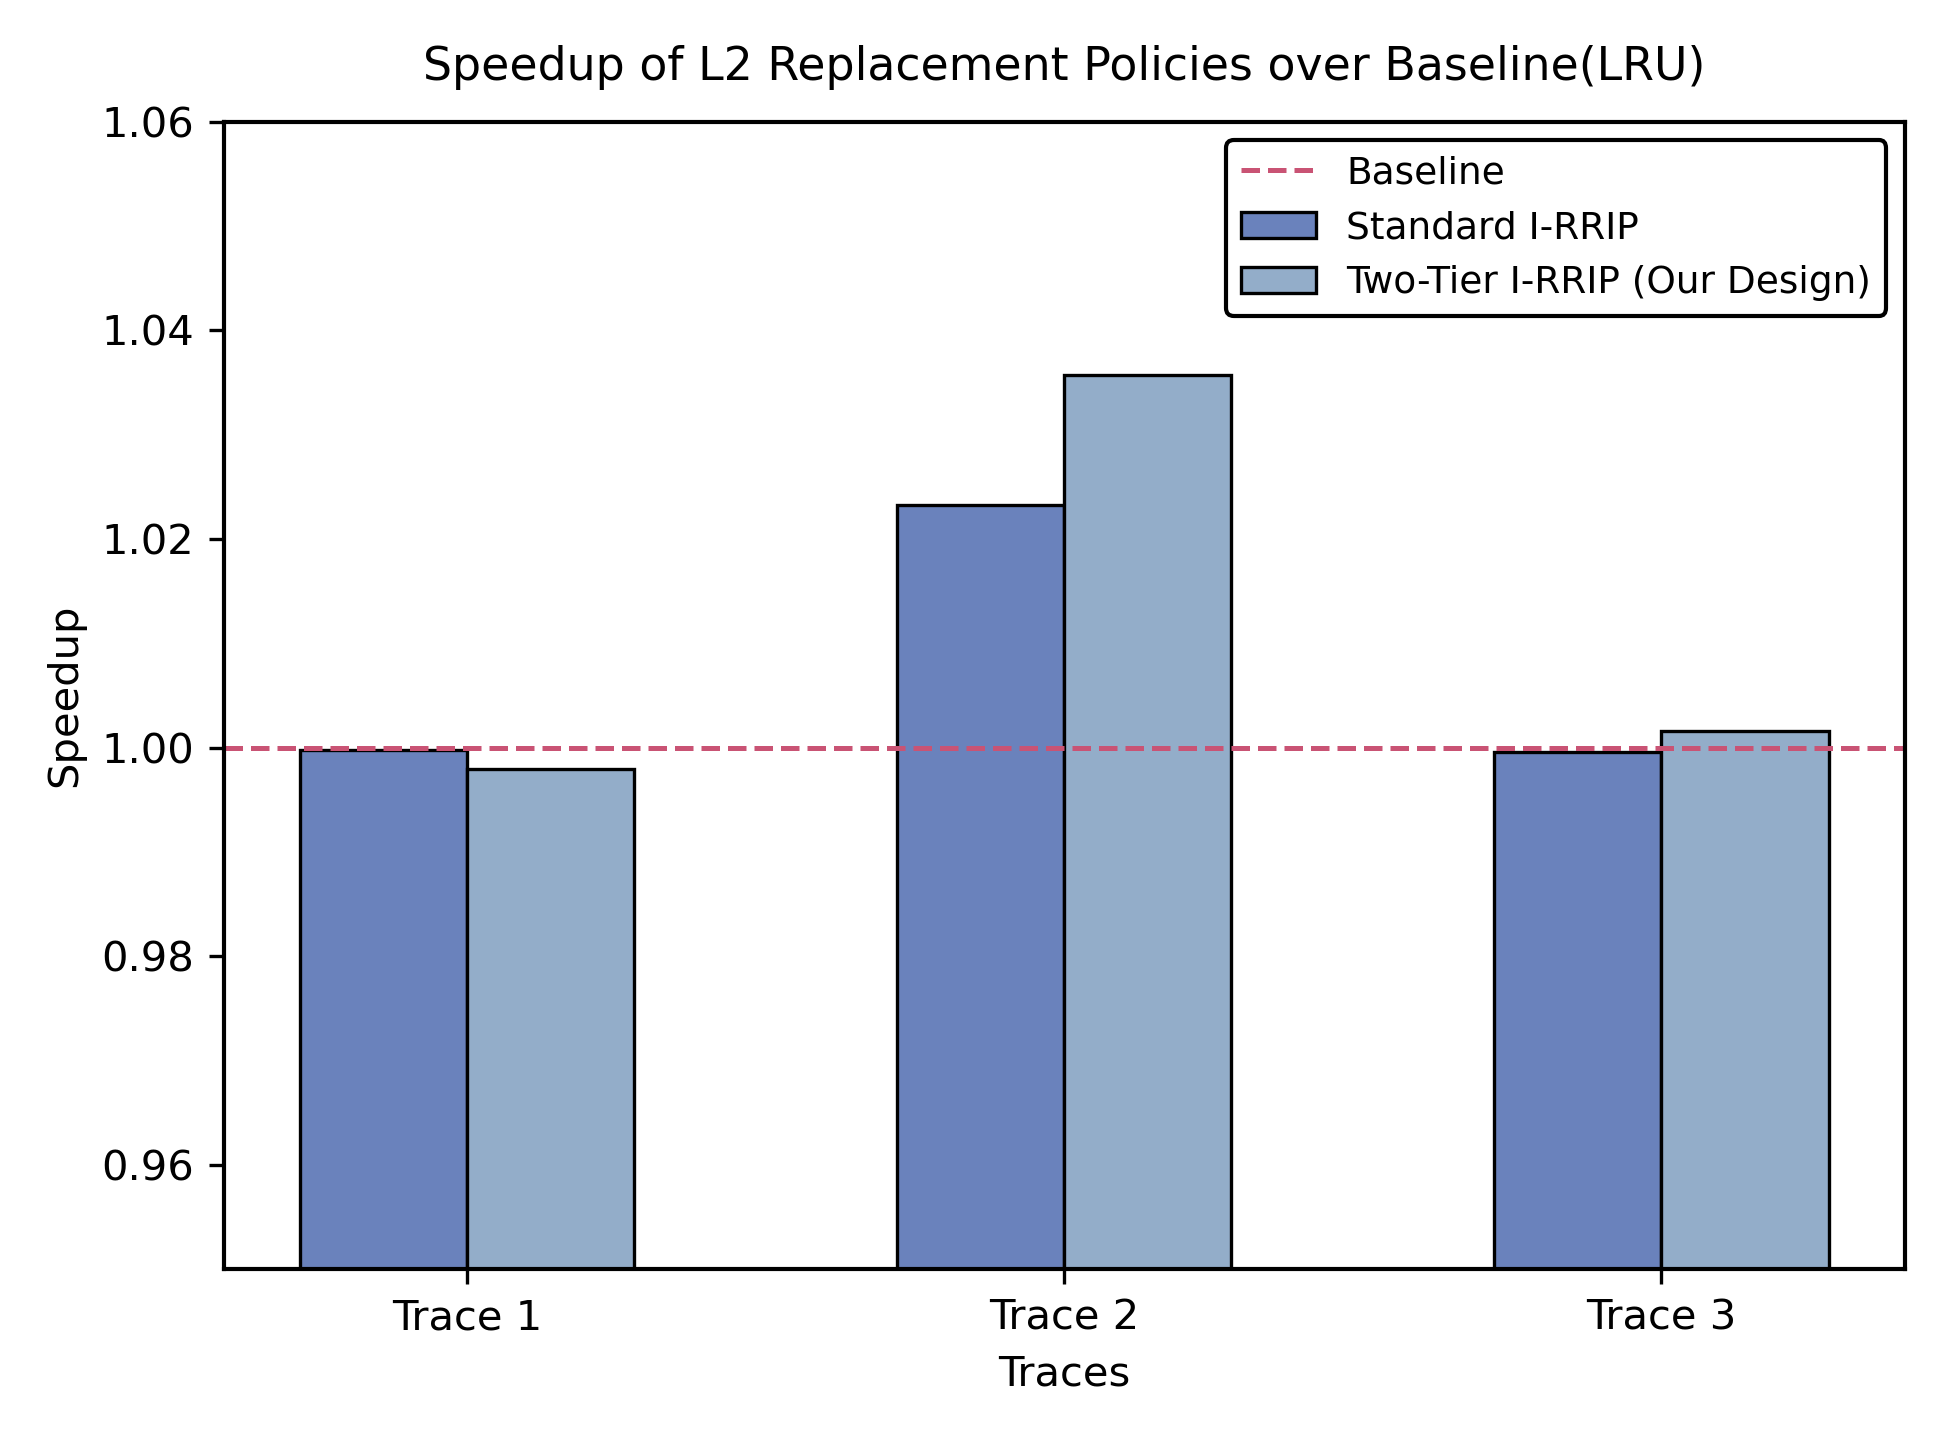
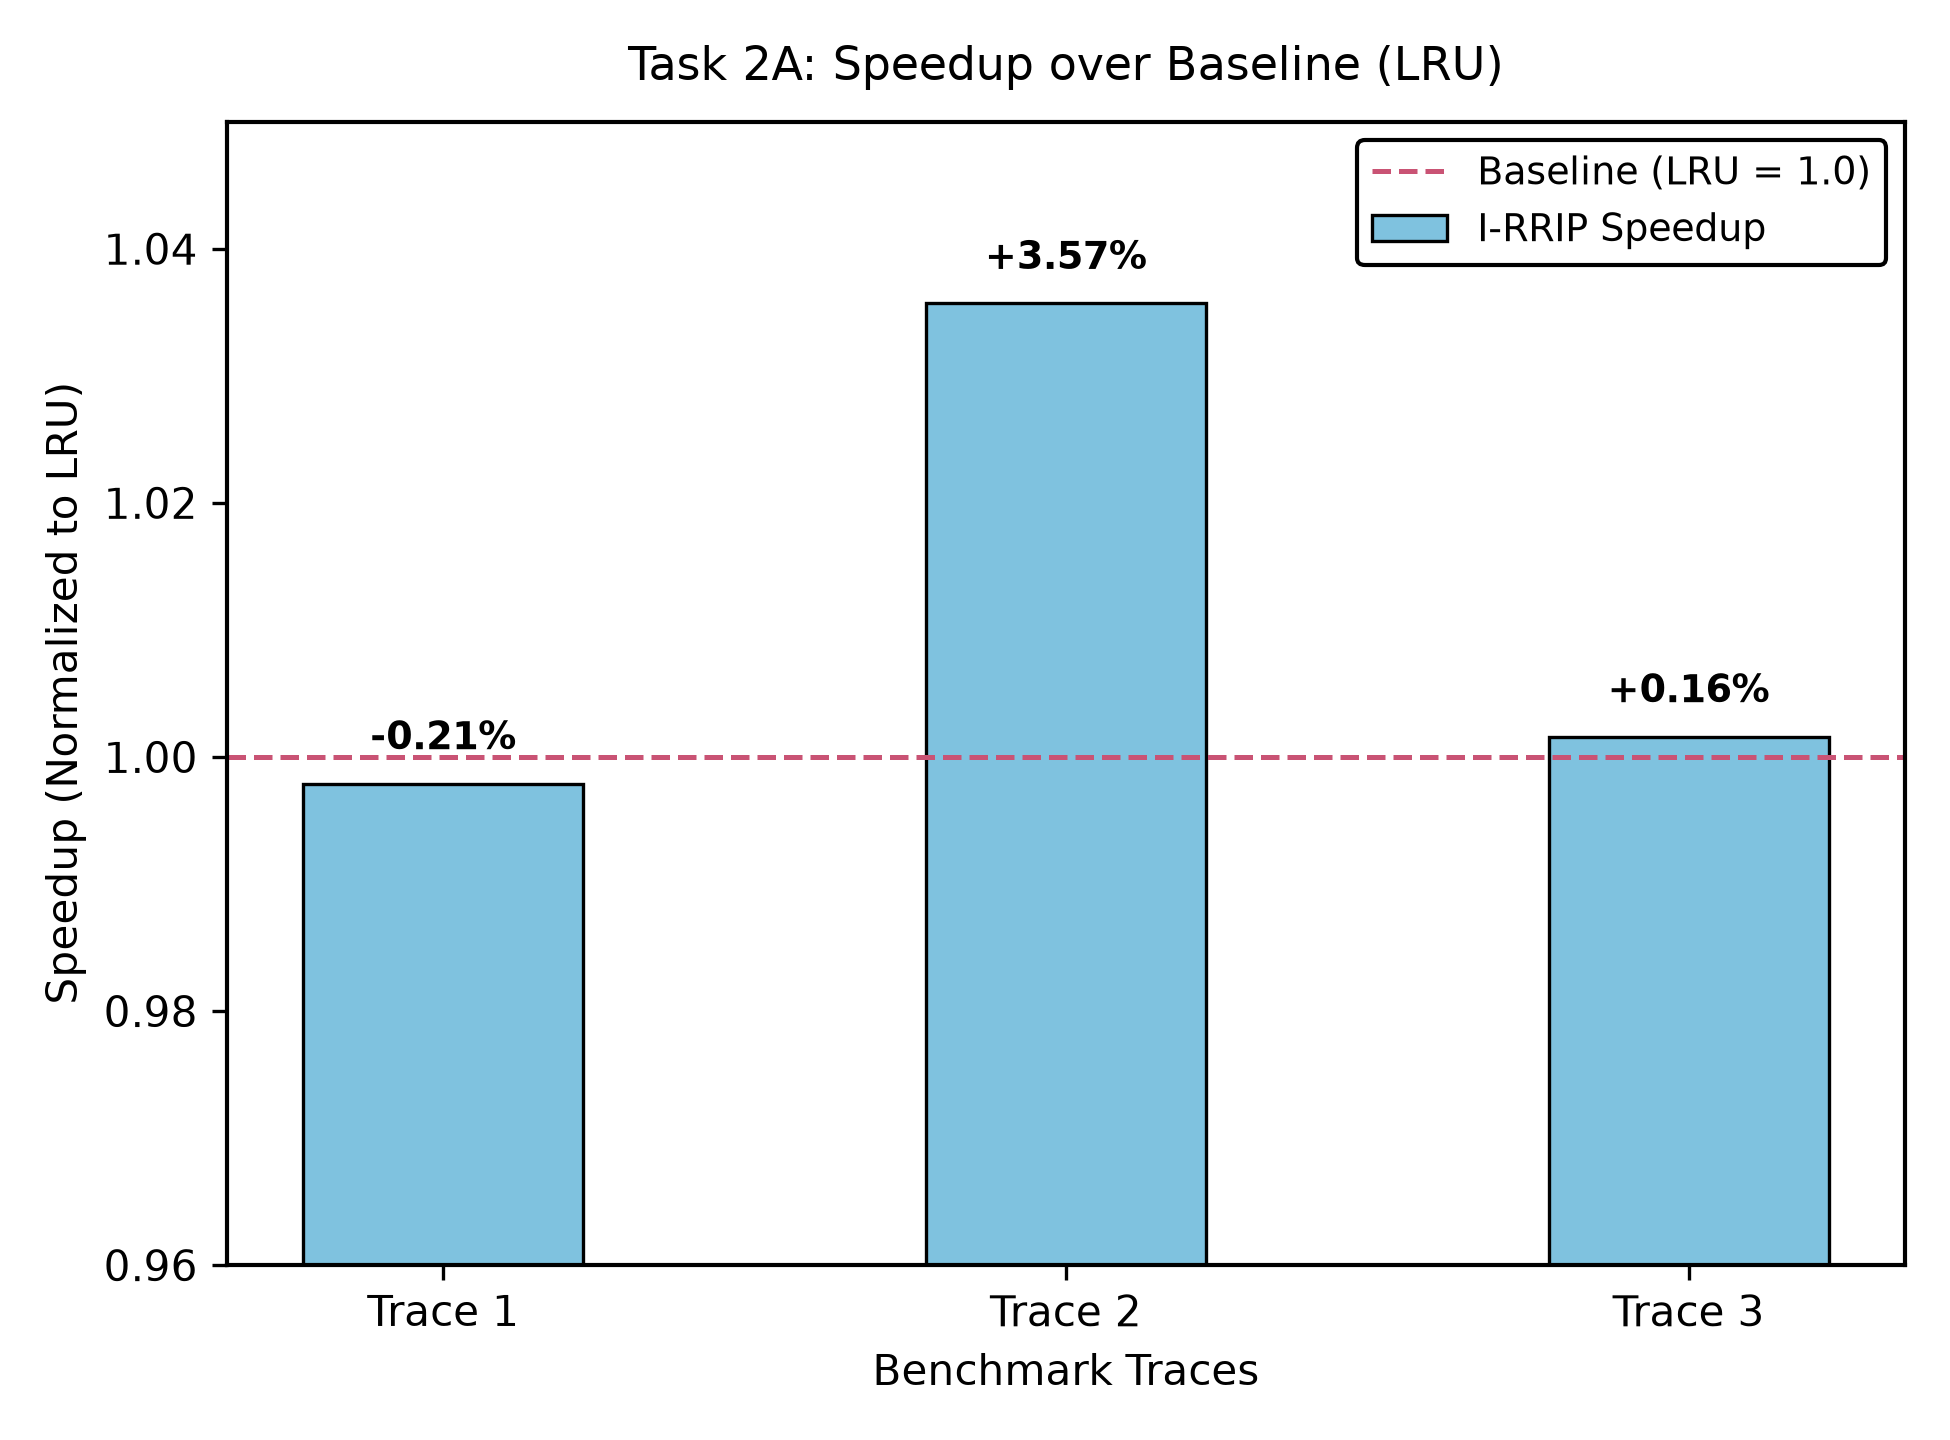
all required plots for task2 added

diff --git a/generate_plots.py b/generate_plots.py
@@ -1,0 +1,267 @@
+import os
+import matplotlib
+import matplotlib.pyplot as plt
+import numpy as np
+
+# Set aesthetic style matching pa2_spec.pdf (Pages 6 & 7)
+plt.rcParams['font.family'] = 'sans-serif'
+plt.rcParams['font.sans-serif'] = ['DejaVu Sans', 'Arial', 'Helvetica']
+plt.rcParams['axes.edgecolor'] = 'black'
+plt.rcParams['axes.linewidth'] = 1.0
+plt.rcParams['axes.grid'] = False
+plt.rcParams['figure.facecolor'] = 'white'
+plt.rcParams['axes.facecolor'] = 'white'
+
+os.makedirs('plots', exist_ok=True)
+
+# Common definitions
+traces = ['Trace 1', 'Trace 2', 'Trace 3']
+x_traces = np.arange(len(traces))
+width2 = 0.32
+width3 = 0.24
+
+# PDF Color Palette
+c_coral = '#eb7d75'   # Trace 1 / Baseline
+c_sky = '#7fc2df'     # Trace 2 / Intermediate
+c_green = '#98d89e'   # Trace 3 / Tuned Policy
+c_slate = '#6a82bc'
+c_crimson = '#c95374'
+
+# Baseline LRU Data across Traces 1, 2, 3
+lru_ipc = [0.2321, 0.2500, 0.3819]
+lru_impki = [10.367, 19.844, 1.127]
+lru_dmpki = [7.359, 8.706, 2.835]
+lru_totmpki = [17.725, 28.550, 3.961]
+
+# ==============================================================================
+# TASK 2A PLOTS: Baseline (LRU) vs. I-RRIP across all 3 Traces
+# ==============================================================================
+
+irrip_ipc = [0.2316, 0.2589, 0.3825]
+irrip_spd = [0.9979, 1.0357, 1.0016]
+irrip_impki = [9.204, 9.993, 0.788]
+irrip_dmpki = [9.589, 11.074, 3.152]
+irrip_totmpki = [18.793, 21.067, 3.940]
+
+# --- Plot 2A-1: IPC ---
+fig, ax = plt.subplots(figsize=(6.5, 4.8), dpi=300)
+ax.bar(x_traces - width2/2, lru_ipc, width2, label='Baseline (LRU)', color=c_coral, edgecolor='black', linewidth=0.8)
+ax.bar(x_traces + width2/2, irrip_ipc, width2, label='I-RRIP', color=c_green, edgecolor='black', linewidth=0.8)
+ax.set_title('Task 2A: Instructions Per Cycle (IPC)', fontsize=11, pad=10)
+ax.set_ylabel('IPC', fontsize=10)
+ax.set_xlabel('Benchmark Traces', fontsize=10)
+ax.set_xticks(x_traces)
+ax.set_xticklabels(traces)
+ax.set_ylim(0, 0.45)
+ax.legend(loc='upper left', frameon=True, edgecolor='black', fontsize=9, framealpha=1.0)
+plt.tight_layout()
+plt.savefig('plots/task2a_ipc.png')
+plt.close()
+
+# --- Plot 2A-2: Speedup ---
+fig, ax = plt.subplots(figsize=(6.5, 4.8), dpi=300)
+ax.bar(x_traces, irrip_spd, 0.45, label='I-RRIP Speedup', color=c_sky, edgecolor='black', linewidth=0.8)
+ax.axhline(1.0, color=c_crimson, linestyle='--', linewidth=1.2, label='Baseline (LRU = 1.0)')
+ax.set_title('Task 2A: Speedup over Baseline (LRU)', fontsize=11, pad=10)
+ax.set_ylabel('Speedup (Normalized to LRU)', fontsize=10)
+ax.set_xlabel('Benchmark Traces', fontsize=10)
+ax.set_xticks(x_traces)
+ax.set_xticklabels(traces)
+ax.set_ylim(0.96, 1.05)
+for i, v in enumerate(irrip_spd):
+    diff = (v - 1.0) * 100
+    sign = '+' if diff >= 0 else ''
+    ax.text(i, v + 0.002, f'{sign}{diff:.2f}%', ha='center', va='bottom', fontsize=9, fontweight='bold')
+ax.legend(loc='upper right', frameon=True, edgecolor='black', fontsize=9, framealpha=1.0)
+plt.tight_layout()
+plt.savefig('plots/task2a_speedup.png')
+plt.close()
+
+# --- Plot 2A-3: L2 Instruction Load MPKI ---
+fig, ax = plt.subplots(figsize=(6.5, 4.8), dpi=300)
+ax.bar(x_traces - width2/2, lru_impki, width2, label='Baseline (LRU)', color=c_coral, edgecolor='black', linewidth=0.8)
+ax.bar(x_traces + width2/2, irrip_impki, width2, label='I-RRIP', color=c_green, edgecolor='black', linewidth=0.8)
+ax.set_title('Task 2A: L2 Instruction Load MPKI', fontsize=11, pad=10)
+ax.set_ylabel('L2 Instruction MPKI', fontsize=10)
+ax.set_xlabel('Benchmark Traces', fontsize=10)
+ax.set_xticks(x_traces)
+ax.set_xticklabels(traces)
+ax.set_ylim(0, 22)
+ax.legend(loc='upper right', frameon=True, edgecolor='black', fontsize=9, framealpha=1.0)
+plt.tight_layout()
+plt.savefig('plots/task2a_instruction_mpki.png')
+plt.close()
+
+# --- Plot 2A-4: L2 Data Load MPKI ---
+fig, ax = plt.subplots(figsize=(6.5, 4.8), dpi=300)
+ax.bar(x_traces - width2/2, lru_dmpki, width2, label='Baseline (LRU)', color=c_coral, edgecolor='black', linewidth=0.8)
+ax.bar(x_traces + width2/2, irrip_dmpki, width2, label='I-RRIP', color=c_sky, edgecolor='black', linewidth=0.8)
+ax.set_title('Task 2A: L2 Data Load MPKI', fontsize=11, pad=10)
+ax.set_ylabel('L2 Data MPKI', fontsize=10)
+ax.set_xlabel('Benchmark Traces', fontsize=10)
+ax.set_xticks(x_traces)
+ax.set_xticklabels(traces)
+ax.set_ylim(0, 14)
+ax.legend(loc='upper right', frameon=True, edgecolor='black', fontsize=9, framealpha=1.0)
+plt.tight_layout()
+plt.savefig('plots/task2a_data_mpki.png')
+plt.close()
+
+# --- Plot 2A-5: Total L2C Load MPKI ---
+fig, ax = plt.subplots(figsize=(6.5, 4.8), dpi=300)
+ax.bar(x_traces - width2/2, lru_totmpki, width2, label='Baseline (LRU)', color=c_coral, edgecolor='black', linewidth=0.8)
+ax.bar(x_traces + width2/2, irrip_totmpki, width2, label='I-RRIP', color=c_green, edgecolor='black', linewidth=0.8)
+ax.set_title('Task 2A: Total L2C Load MPKI', fontsize=11, pad=10)
+ax.set_ylabel('L2C Total MPKI', fontsize=10)
+ax.set_xlabel('Benchmark Traces', fontsize=10)
+ax.set_xticks(x_traces)
+ax.set_xticklabels(traces)
+ax.set_ylim(0, 32)
+ax.legend(loc='upper right', frameon=True, edgecolor='black', fontsize=9, framealpha=1.0)
+plt.tight_layout()
+plt.savefig('plots/task2a_total_mpki.png')
+plt.close()
+
+# ==============================================================================
+# TASK 2B PARAMETER TUNING: 1 Graph for Threshold Tuning + 1 for Leader Sets
+# ==============================================================================
+
+thresholds = ['0.15', '0.20', '0.25\n(Default)', '0.30', '0.35']
+x_th = np.arange(len(thresholds))
+
+spds_t1 = [0.9980, 0.9979, 0.9984, 0.9984, 0.9975]
+spds_t2 = [1.0346, 1.0346, 1.0346, 1.0346, 1.0304]
+spds_t3 = [1.0016, 1.0017, 1.0018, 1.0017, 0.9987]
+
+# --- Parameter Tuning Plot: Speedup across 5 Thresholds (All Traces) ---
+fig, ax = plt.subplots(figsize=(7.0, 4.8), dpi=300)
+ax.bar(x_th - width3, spds_t1, width3, label='Trace 1', color=c_coral, edgecolor='black', linewidth=0.8)
+ax.bar(x_th, spds_t2, width3, label='Trace 2', color=c_sky, edgecolor='black', linewidth=0.8)
+ax.bar(x_th + width3, spds_t3, width3, label='Trace 3', color=c_green, edgecolor='black', linewidth=0.8)
+ax.axhline(1.0, color=c_crimson, linestyle='--', linewidth=1.2, label='Baseline (LRU = 1.0)')
+ax.set_title('Task 2B Parameter Tuning: Speedup vs. Decision Threshold (All Traces)', fontsize=11, pad=10)
+ax.set_ylabel('Speedup over Baseline', fontsize=10)
+ax.set_xlabel('Decision Threshold', fontsize=10)
+ax.set_xticks(x_th)
+ax.set_xticklabels(thresholds)
+ax.set_ylim(0.97, 1.055)
+ax.legend(loc='upper right', frameon=True, edgecolor='black', fontsize=9, framealpha=1.0)
+plt.tight_layout()
+plt.savefig('plots/task2b_threshold_speedup.png')
+plt.close()
+
+# --- Leader Sets Tuning Plot: Speedup across Leader Set Allocations (All Traces) ---
+leader_configs = ['16 Leaders\n(Stride 64)', '32 Leaders\n(Stride 32)', '64 Leaders\n(Stride 16, Default)']
+x_ld = np.arange(len(leader_configs))
+
+ld_spd_t1 = [0.9979, 0.9984, 0.9978]
+ld_spd_t2 = [1.0334, 1.0346, 1.0352]
+ld_spd_t3 = [1.0017, 1.0018, 1.0017]
+
+fig, ax = plt.subplots(figsize=(7.0, 4.8), dpi=300)
+ax.bar(x_ld - width3, ld_spd_t1, width3, label='Trace 1', color=c_coral, edgecolor='black', linewidth=0.8)
+ax.bar(x_ld, ld_spd_t2, width3, label='Trace 2', color=c_sky, edgecolor='black', linewidth=0.8)
+ax.bar(x_ld + width3, ld_spd_t3, width3, label='Trace 3', color=c_green, edgecolor='black', linewidth=0.8)
+ax.axhline(1.0, color=c_crimson, linestyle='--', linewidth=1.2, label='Baseline (LRU = 1.0)')
+ax.set_title('Task 2B: Speedup across Leader Set Allocations (All Traces)', fontsize=11, pad=10)
+ax.set_ylabel('Speedup over Baseline', fontsize=10)
+ax.set_xlabel('Leader Set Configurations', fontsize=10)
+ax.set_xticks(x_ld)
+ax.set_xticklabels(leader_configs)
+ax.set_ylim(0.97, 1.055)
+ax.legend(loc='upper right', frameon=True, edgecolor='black', fontsize=9, framealpha=1.0)
+plt.tight_layout()
+plt.savefig('plots/task2b_leaders_sensitivity.png')
+plt.close()
+
+# ==============================================================================
+# TASK 2B TUNED PARAMS VS. LRU PLOTS: Dynamic I-RRIP (Tuned) vs. Baseline (LRU)
+# ==============================================================================
+
+# Tuned Dynamic I-RRIP (64 Leader Sets, Threshold 0.25)
+dyn_ipc = [0.2316, 0.2588, 0.3826]
+dyn_spd = [0.9978, 1.0352, 1.0017]
+dyn_impki = [9.193, 10.115, 0.790]
+dyn_dmpki = [9.540, 10.996, 3.143]
+dyn_totmpki = [18.734, 21.111, 3.934]
+
+# --- Plot 2B Tuned vs LRU 1: IPC ---
+fig, ax = plt.subplots(figsize=(6.5, 4.8), dpi=300)
+ax.bar(x_traces - width2/2, lru_ipc, width2, label='Baseline (LRU)', color=c_coral, edgecolor='black', linewidth=0.8)
+ax.bar(x_traces + width2/2, dyn_ipc, width2, label='Dynamic I-RRIP (Tuned)', color=c_green, edgecolor='black', linewidth=0.8)
+ax.set_title('Task 2B: Instructions Per Cycle (IPC) - Tuned vs. LRU', fontsize=11, pad=10)
+ax.set_ylabel('IPC', fontsize=10)
+ax.set_xlabel('Benchmark Traces', fontsize=10)
+ax.set_xticks(x_traces)
+ax.set_xticklabels(traces)
+ax.set_ylim(0, 0.45)
+ax.legend(loc='upper left', frameon=True, edgecolor='black', fontsize=9, framealpha=1.0)
+plt.tight_layout()
+plt.savefig('plots/task2b_ipc.png')
+plt.close()
+
+# --- Plot 2B Tuned vs LRU 2: Speedup ---
+fig, ax = plt.subplots(figsize=(6.5, 4.8), dpi=300)
+ax.bar(x_traces, dyn_spd, 0.45, label='Dynamic I-RRIP Speedup', color=c_sky, edgecolor='black', linewidth=0.8)
+ax.axhline(1.0, color=c_crimson, linestyle='--', linewidth=1.2, label='Baseline (LRU = 1.0)')
+ax.set_title('Task 2B: Speedup over Baseline (LRU) - Tuned Design', fontsize=11, pad=10)
+ax.set_ylabel('Speedup (Normalized to LRU)', fontsize=10)
+ax.set_xlabel('Benchmark Traces', fontsize=10)
+ax.set_xticks(x_traces)
+ax.set_xticklabels(traces)
+ax.set_ylim(0.96, 1.05)
+for i, v in enumerate(dyn_spd):
+    diff = (v - 1.0) * 100
+    sign = '+' if diff >= 0 else ''
+    ax.text(i, v + 0.002, f'{sign}{diff:.2f}%', ha='center', va='bottom', fontsize=9, fontweight='bold')
+ax.legend(loc='upper right', frameon=True, edgecolor='black', fontsize=9, framealpha=1.0)
+plt.tight_layout()
+plt.savefig('plots/task2b_speedup.png')
+plt.close()
+
+# --- Plot 2B Tuned vs LRU 3: L2 Instruction Load MPKI ---
+fig, ax = plt.subplots(figsize=(6.5, 4.8), dpi=300)
+ax.bar(x_traces - width2/2, lru_impki, width2, label='Baseline (LRU)', color=c_coral, edgecolor='black', linewidth=0.8)
+ax.bar(x_traces + width2/2, dyn_impki, width2, label='Dynamic I-RRIP (Tuned)', color=c_green, edgecolor='black', linewidth=0.8)
+ax.set_title('Task 2B: L2 Instruction Load MPKI - Tuned vs. LRU', fontsize=11, pad=10)
+ax.set_ylabel('L2 Instruction MPKI', fontsize=10)
+ax.set_xlabel('Benchmark Traces', fontsize=10)
+ax.set_xticks(x_traces)
+ax.set_xticklabels(traces)
+ax.set_ylim(0, 22)
+ax.legend(loc='upper right', frameon=True, edgecolor='black', fontsize=9, framealpha=1.0)
+plt.tight_layout()
+plt.savefig('plots/task2b_instruction_mpki.png')
+plt.close()
+
+# --- Plot 2B Tuned vs LRU 4: L2 Data Load MPKI ---
+fig, ax = plt.subplots(figsize=(6.5, 4.8), dpi=300)
+ax.bar(x_traces - width2/2, lru_dmpki, width2, label='Baseline (LRU)', color=c_coral, edgecolor='black', linewidth=0.8)
+ax.bar(x_traces + width2/2, dyn_dmpki, width2, label='Dynamic I-RRIP (Tuned)', color=c_sky, edgecolor='black', linewidth=0.8)
+ax.set_title('Task 2B: L2 Data Load MPKI - Tuned vs. LRU', fontsize=11, pad=10)
+ax.set_ylabel('L2 Data MPKI', fontsize=10)
+ax.set_xlabel('Benchmark Traces', fontsize=10)
+ax.set_xticks(x_traces)
+ax.set_xticklabels(traces)
+ax.set_ylim(0, 14)
+ax.legend(loc='upper right', frameon=True, edgecolor='black', fontsize=9, framealpha=1.0)
+plt.tight_layout()
+plt.savefig('plots/task2b_data_mpki.png')
+plt.close()
+
+# --- Plot 2B Tuned vs LRU 5: Total L2C Load MPKI ---
+fig, ax = plt.subplots(figsize=(6.5, 4.8), dpi=300)
+ax.bar(x_traces - width2/2, lru_totmpki, width2, label='Baseline (LRU)', color=c_coral, edgecolor='black', linewidth=0.8)
+ax.bar(x_traces + width2/2, dyn_totmpki, width2, label='Dynamic I-RRIP (Tuned)', color=c_green, edgecolor='black', linewidth=0.8)
+ax.set_title('Task 2B: Total L2C Load MPKI - Tuned vs. LRU', fontsize=11, pad=10)
+ax.set_ylabel('L2C Total MPKI', fontsize=10)
+ax.set_xlabel('Benchmark Traces', fontsize=10)
+ax.set_xticks(x_traces)
+ax.set_xticklabels(traces)
+ax.set_ylim(0, 32)
+ax.legend(loc='upper right', frameon=True, edgecolor='black', fontsize=9, framealpha=1.0)
+plt.tight_layout()
+plt.savefig('plots/task2b_total_mpki.png')
+plt.close()
+
+print('Successfully generated all Task 2A and 2B plots (1 graph for parameter tuning, full suite for tuned vs LRU)!')

diff --git a/task2_deliverables.md b/task2_deliverables.md
@@ -21,9 +21,12 @@ Report of IPC, Speedup, L2C Load MPKI, L2 Instruction Load MPKI, and L2 Data Loa
 
 $$\text{Speedup} = \frac{\text{IPC}_{\text{I-RRIP}}}{\text{IPC}_{\text{LRU}}}$$
 
-*Generated Plots:*
-- `plots/task2a_speedup.png` (Speedup across Traces 1, 2, 3)
-- `plots/task2a_mpki.png` (L2 Instruction MPKI and Overall L2 MPKI across Traces 1, 2, 3)
+*Generated Plots for Task 2A (matching PDF Pages 6 & 7 theme in `plots/`):*
+- `plots/task2a_ipc.png`: Instructions Per Cycle (IPC) for Baseline (LRU) vs. I-RRIP across Traces 1, 2, 3
+- `plots/task2a_speedup.png`: Speedup over Baseline (LRU) for I-RRIP across Traces 1, 2, 3
+- `plots/task2a_instruction_mpki.png`: L2 Instruction Load MPKI for Baseline (LRU) vs. I-RRIP across Traces 1, 2, 3
+- `plots/task2a_data_mpki.png`: L2 Data Load MPKI for Baseline (LRU) vs. I-RRIP across Traces 1, 2, 3
+- `plots/task2a_total_mpki.png`: Total L2C Load MPKI for Baseline (LRU) vs. I-RRIP across Traces 1, 2, 3
 
 ---
 
@@ -74,8 +77,8 @@ If $\text{Ratio} > \text{THRESHOLD}$, follower sets use I-RRIP; otherwise, they 
 | **0.35** | Trace 2 | 0.2576 | +3.04% | 21.654 | 10.970 | 10.684 | Partial / Under-engages |
 | **0.35** | Trace 3 | 0.3814 | -0.13% | 4.011 | 0.969 | 3.042 | RRIP |
 
-*Generated Plot:*
-- `plots/task2b_threshold_sensitivity.png` (Trace 2 Speedup and I-MPKI curve across the 5 thresholds)
+*Generated Plot for Threshold Parameter Tuning (matching PDF Pages 6 & 7 theme in `plots/`):*
+- `plots/task2b_threshold_speedup.png`: Speedup over Baseline (LRU) vs. Decision Threshold across Traces 1, 2, 3
 
 ---
 
@@ -95,8 +98,15 @@ Comparison of 16, 32, and 64 dedicated leader sets across the 1024 L2 cache sets
 | **64 Leader Sets (Default - Highest Values)** | Trace 2 | **0.2588** | **+3.52%** | 21.111 | **10.115** | 10.996 |
 | **64 Leader Sets (Default - Highest Values)** | Trace 3 | 0.3826 | +0.17% | 3.934 | 0.790 | 3.143 |
 
-*Generated Plot:*
-- `plots/task2b_leaders_sensitivity.png` (Trace 2 Speedup and I-MPKI comparison across 16, 32, and 64 leader sets)
+*Generated Plot for Leader Set Sensitivity (in `plots/`):*
+- `plots/task2b_leaders_sensitivity.png`: Speedup across 16, 32, and 64 leader sets (All Traces: Trace 1, 2, 3)
+
+*Generated Plots for Tuned Dynamic I-RRIP vs. Baseline LRU (matching PDF Pages 6 & 7 theme in `plots/`):*
+- `plots/task2b_ipc.png`: Instructions Per Cycle (IPC) for Baseline (LRU) vs. Dynamic I-RRIP (Tuned) across Traces 1, 2, 3
+- `plots/task2b_speedup.png`: Speedup over Baseline (LRU) for Dynamic I-RRIP (Tuned) across Traces 1, 2, 3
+- `plots/task2b_instruction_mpki.png`: L2 Instruction Load MPKI for Baseline (LRU) vs. Dynamic I-RRIP (Tuned) across Traces 1, 2, 3
+- `plots/task2b_data_mpki.png`: L2 Data Load MPKI for Baseline (LRU) vs. Dynamic I-RRIP (Tuned) across Traces 1, 2, 3
+- `plots/task2b_total_mpki.png`: Total L2C Load MPKI for Baseline (LRU) vs. Dynamic I-RRIP (Tuned) across Traces 1, 2, 3
 
 ---
 
